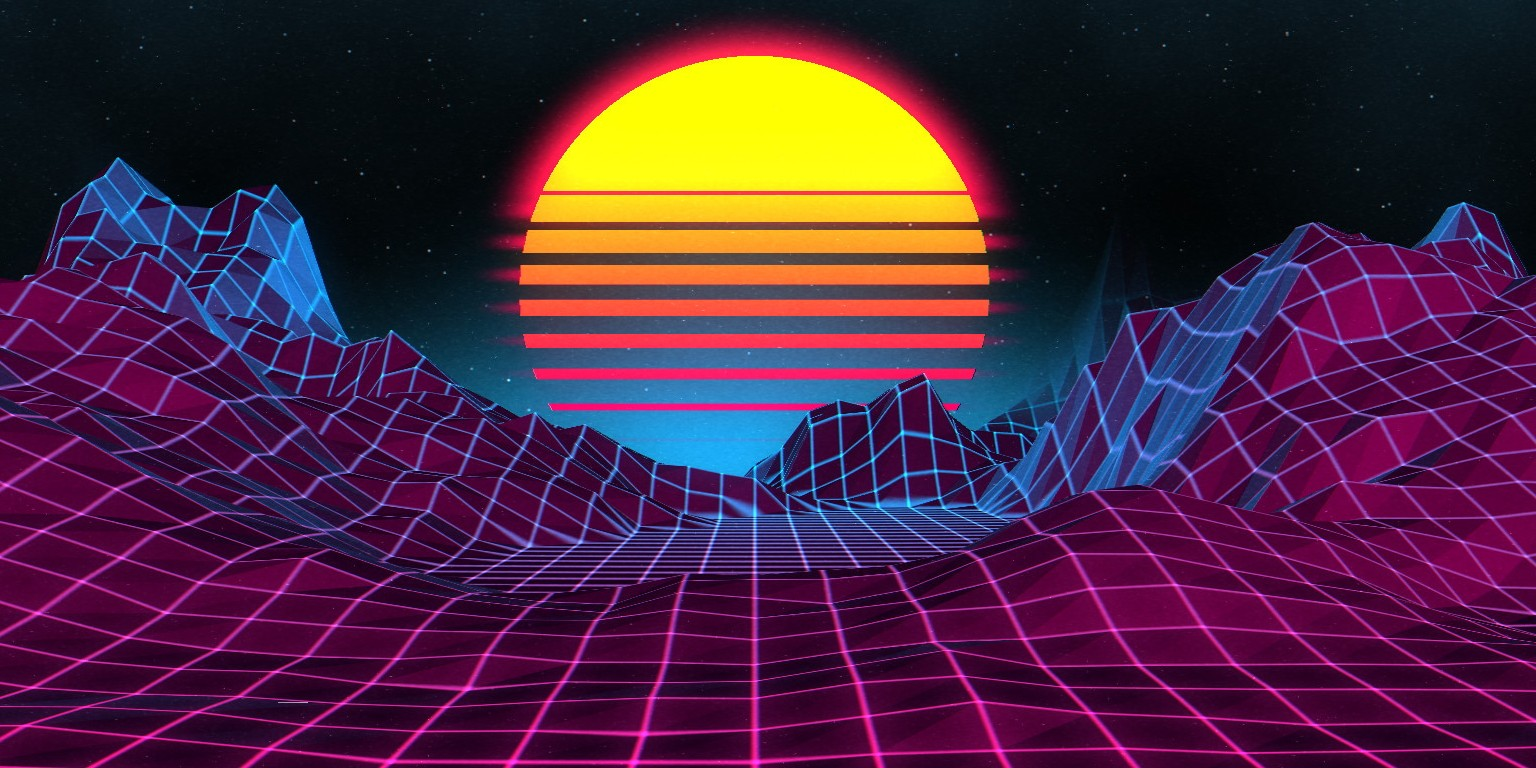
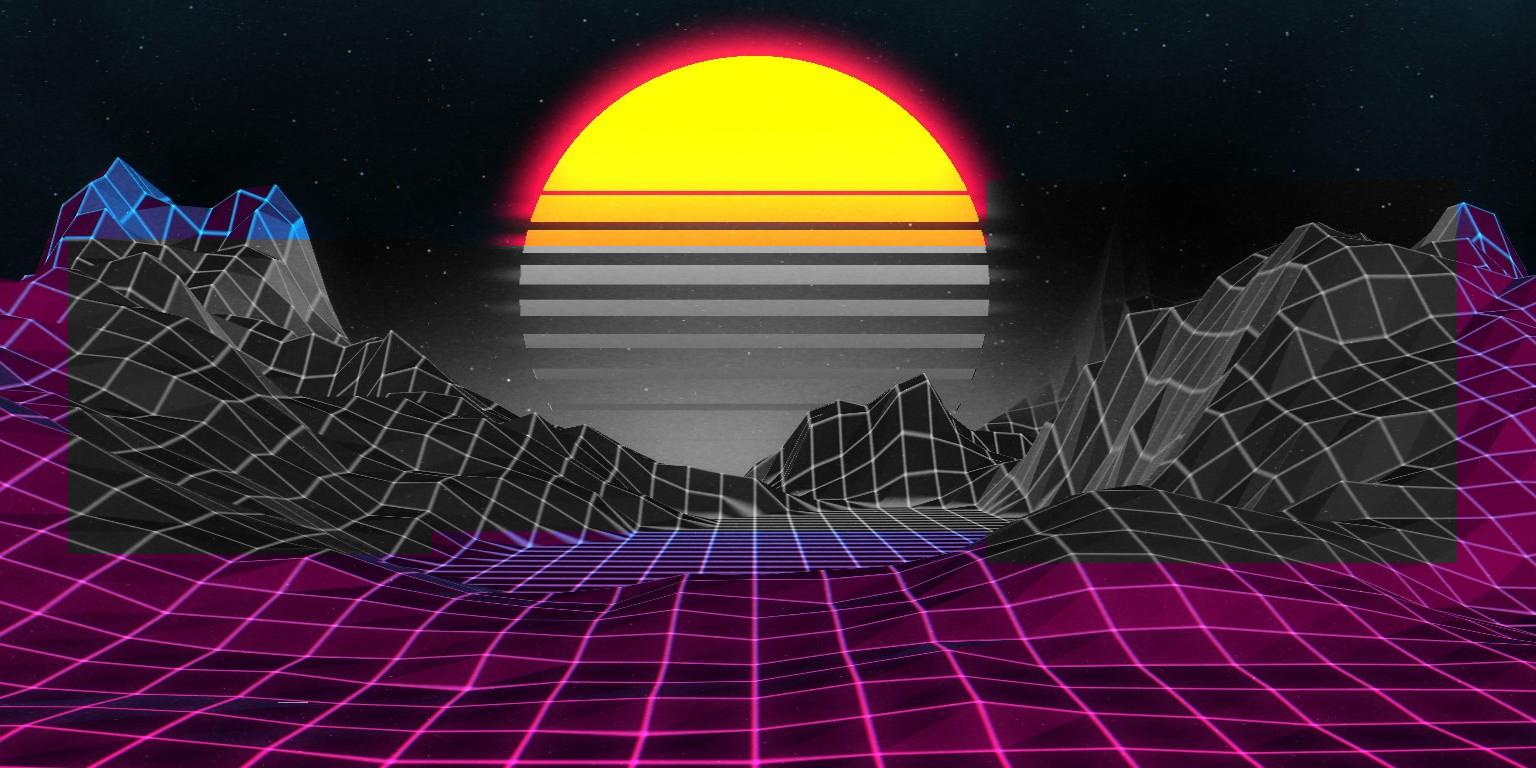
Dodata prva operacija nad slikom, bugfixes

diff --git a/ipc.py b/ipc.py
@@ -13,11 +13,13 @@ from kivy.uix.filechooser import FileChooserListLayout
 from kivy.uix.popup import Popup
 from kivy.graphics import Color, Ellipse, Line
 from kivy.properties import ObjectProperty
+from kivy.core.window import Window
 from PIL import Image
+import imageOperations
 import os
 
 image_path=""
-im = None
+im = 0
 
 class CustomPopup(Popup):
 
@@ -96,9 +98,8 @@ class IPC(FloatLayout):
     
     def on_touch_down(self,touch):
         global im
-        print(self.area_start)
-        if (self.active_tool == self.selection_tool) and (touch.osx>0.3 or touch.osy>0.3):
-            self.area_start = [(touch.osx-0.3)*(1/0.7)*im.width,((touch.osy-0.15)*(1/0.85))*im.height]
+        if (self.active_tool == self.selection_tool) and (touch.osx>0.3 and touch.osy>0.3):
+            self.area_start = [(touch.sx-0.3)*(1/0.7)*im.width,((touch.sy-0.15)*(1/0.85))*im.height]
         if self.disabled and self.collide_point(*touch.pos):
             return True
         for child in self.children[:]:
@@ -107,8 +108,8 @@ class IPC(FloatLayout):
 
     def on_touch_up(self,touch):
         global im
-        if (self.active_tool == self.selection_tool) and (touch.osx>0.3 or touch.osy>0.3):
-            self.area_end = [(touch.osx-0.3)*(1/0.7)*im.width,((touch.osy-0.15)*(1/0.85))*im.height]
+        if (self.active_tool == self.selection_tool) and (touch.osx>0.3 and touch.osy>0.3):
+            self.area_end = [(touch.sx-0.3)*(1/0.7)*im.width,((touch.sy-0.15)*(1/0.85))*im.height]
         if self.disabled:
             return
         for child in self.children[:]:
@@ -133,6 +134,7 @@ class IPC(FloatLayout):
             if ext=='BMP' or ext=='JPEG' or ext=='PNG':
                 image=im.convert('RGB')
                 image.save(url,ext)
+                self.reload_image()
                 pass
         except ValueError:
             print('ValueError')
@@ -142,6 +144,13 @@ class IPC(FloatLayout):
     def activate_selection_tool(self):
         self.active_tool=self.selection_tool
 
+    def greyscale_image(self):
+        global im
+        global image_path
+        self.area_start[0],self.area_end[0] = min (self.area_start[0],self.area_end[0]), max(self.area_start[0],self.area_end[0])
+        self.area_start[1],self.area_end[1] = min (self.area_start[1],self.area_end[1]), max(self.area_start[1],self.area_end[1])
+        i=imageOperations.applyOperationOnRegion(imageOperations.imageGrayScale,im,(int(self.area_start[0]),int(self.area_start[1]),int(self.area_end[0]),int(self.area_end[1])))
+        self.save_temp_image()
 
 class IPCApp(App):
     
@@ -149,4 +158,5 @@ class IPCApp(App):
         return IPC()
 
 if __name__ == '__main__':
+    Window.size = (1280, 720)
     IPCApp().run()

diff --git a/imageOperations.py b/imageOperations.py
@@ -57,9 +57,9 @@ def OpenImage(url):
 def imageGrayScale(myimage):
     return myimage.convert('LA')
 #Primer pokretanja
-myimage=Image.open("1.jpeg",mode='r')
-myimage=applyOperationOnRegion(imageGrayScale,myimage,(40,100,200,200))
-myimage.show()
+#myimage=Image.open("1.jpeg",mode='r')
+#myimage=applyOperationOnRegion(imageGrayScale,myimage,(40,100,200,200))
+#myimage.show()
 #saveImage(myimage,"2.jpeg","jpeg")
 #watermark=Image.open("watermark.png",mode="r")
 #setWatermark(myimage,watermark,(0,0)).show()
